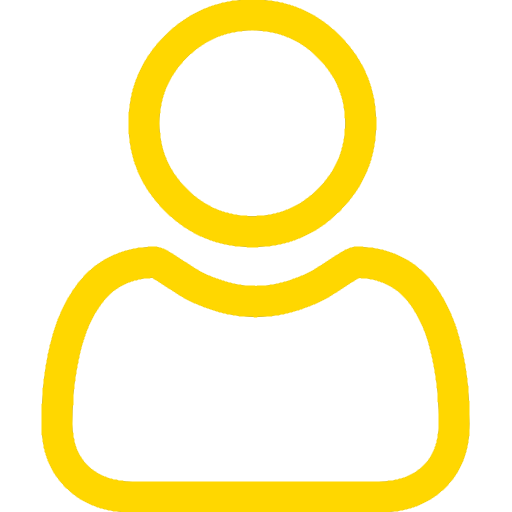
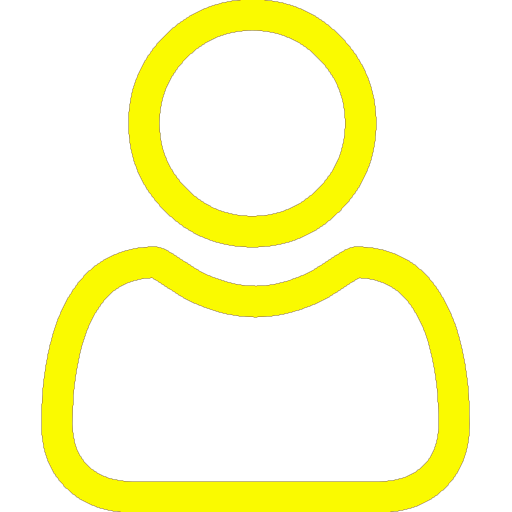
-Ajout Screen et icone Boutique -Modif coleur icones accueil

Changed region(s): [[0.0625, 0.4688, 0.9375, 1.0], [0.25, 0.0, 0.75, 0.5]]

diff --git a/Navigation/SleyTabNav.js b/Navigation/SleyTabNav.js
@@ -1,23 +1,81 @@
 import * as React from 'react';
-import { Text, View } from 'react-native';
+import { StyleSheet,Text, View, Image } from 'react-native';
 import { NavigationContainer } from '@react-navigation/native';
 import { createBottomTabNavigator } from '@react-navigation/bottom-tabs';
+
 import Accueil from "../Components/Accueil"
 import Profil from "../Components/Profil"
+import Boutique from "../Components/Boutique"
+import Planning from "../Components/Planning"
 import Connexion from "../Components/Auth/Connexion"
+
+
 const Tab = createBottomTabNavigator();
 
 function SleyTabNav()
 {
   return(
 
-        <Tab.Navigator>
-           <Tab.Screen name="Accueil" component={Accueil} />
-           <Tab.Screen name="Profil" component={Profil} />
+        <Tab.Navigator
+            tabBarOptions={{
+              showLabel:false,
+                style: {
+                         backgroundColor: 'rgba(255, 255, 0, 0.7)',
+                       }
+
+          }}>
+
+          <Tab.Screen name="Planning"
+             component={Planning}
+             options={{
+                   tabBarLabel: 'Accueil',
+                   tabBarIcon: () => {
+                     return <Image
+                       source={require('../assets/calendar.png')}
+                       style={styles.tab_Icon}/>
+                   },
+                 }}/>
+
+         <Tab.Screen name="Boutique"
+            component={Boutique}
+            options={{
+                  tabBarLabel: 'Boutique',
+                  tabBarIcon: () => {
+                    return <Image
+                      source={require('../assets/store3.png')}
+                      style={styles.tab_Icon}/>
+                  },
+                }}/>
+
+           <Tab.Screen name="Accueil"
+              component={Accueil}
+              options={{
+                    tabBarLabel: 'Accueil',
+                    tabBarIcon: () => {
+                      return <Image
+                        source={require('../assets/home.png')}
+                        style={styles.tab_Icon}/>
+                    },
+                  }}/>
+
+           <Tab.Screen name="Profil"
+            component={Profil}
+            options={{
+                  tabBarLabel: 'Profil',
+                  tabBarIcon: () => {
+                    return <Image
+                      source={require('../assets/profile.png')}
+                      style={styles.tab_Icon}/>
+                  },
+                }}/>
         </Tab.Navigator>
   )
 
 }
 
-
+const styles = StyleSheet.create({
+  tab_Icon: {
+    height:40, width:40
+  },
+})
 export default SleyTabNav

diff --git a/Components/Accueil.js b/Components/Accueil.js
@@ -28,10 +28,10 @@ class Accueil extends React.Component
               <Text style={{
                   fontSize: 35,
                   fontWeight:"bold",
-                  color:'#FFD700',
+                  color:'rgba(255, 255, 0, 1)',
                 marginBottom:30}}>Sport Training</Text>
 
-              <CommonText > Nou kontan vwèw <Text style={{color:"#FFD700"}}>{this.userName} </Text>!</CommonText>
+              <CommonText > Nou kontan vwèw <Text style={{color:"rgba(255, 255, 0, 1)"}}>{this.userName} </Text>!</CommonText>
           </View>
           <ScrollView style={styles.options_container}>
               <TouchableOpacity style={styles.touchOption}
@@ -91,7 +91,7 @@ const styles = StyleSheet.create({
   },
   options_container: {
     flex: 1,
-    borderColor:"#FFD700",//Gold
+    borderColor:"rgba(255, 255, 0, 1)",
     borderWidth:3,
     borderRadius:35,
     marginBottom:25,

diff --git a/Components/Boutique.js b/Components/Boutique.js
@@ -1,0 +1,23 @@
+import React from 'react'
+import {StyleSheet, View, Text} from 'react-native'
+import { connect } from 'react-redux'
+
+class Profil extends React.Component {
+
+  render()
+  {
+    return(
+
+        <View style={{flex:1,backgroundColor:"green"}}>
+          <Text style={{textAlign:"center"}}>Boutique</Text>
+        </View>
+    )
+  }
+}
+
+
+const styles={
+
+}
+
+export default Profil
